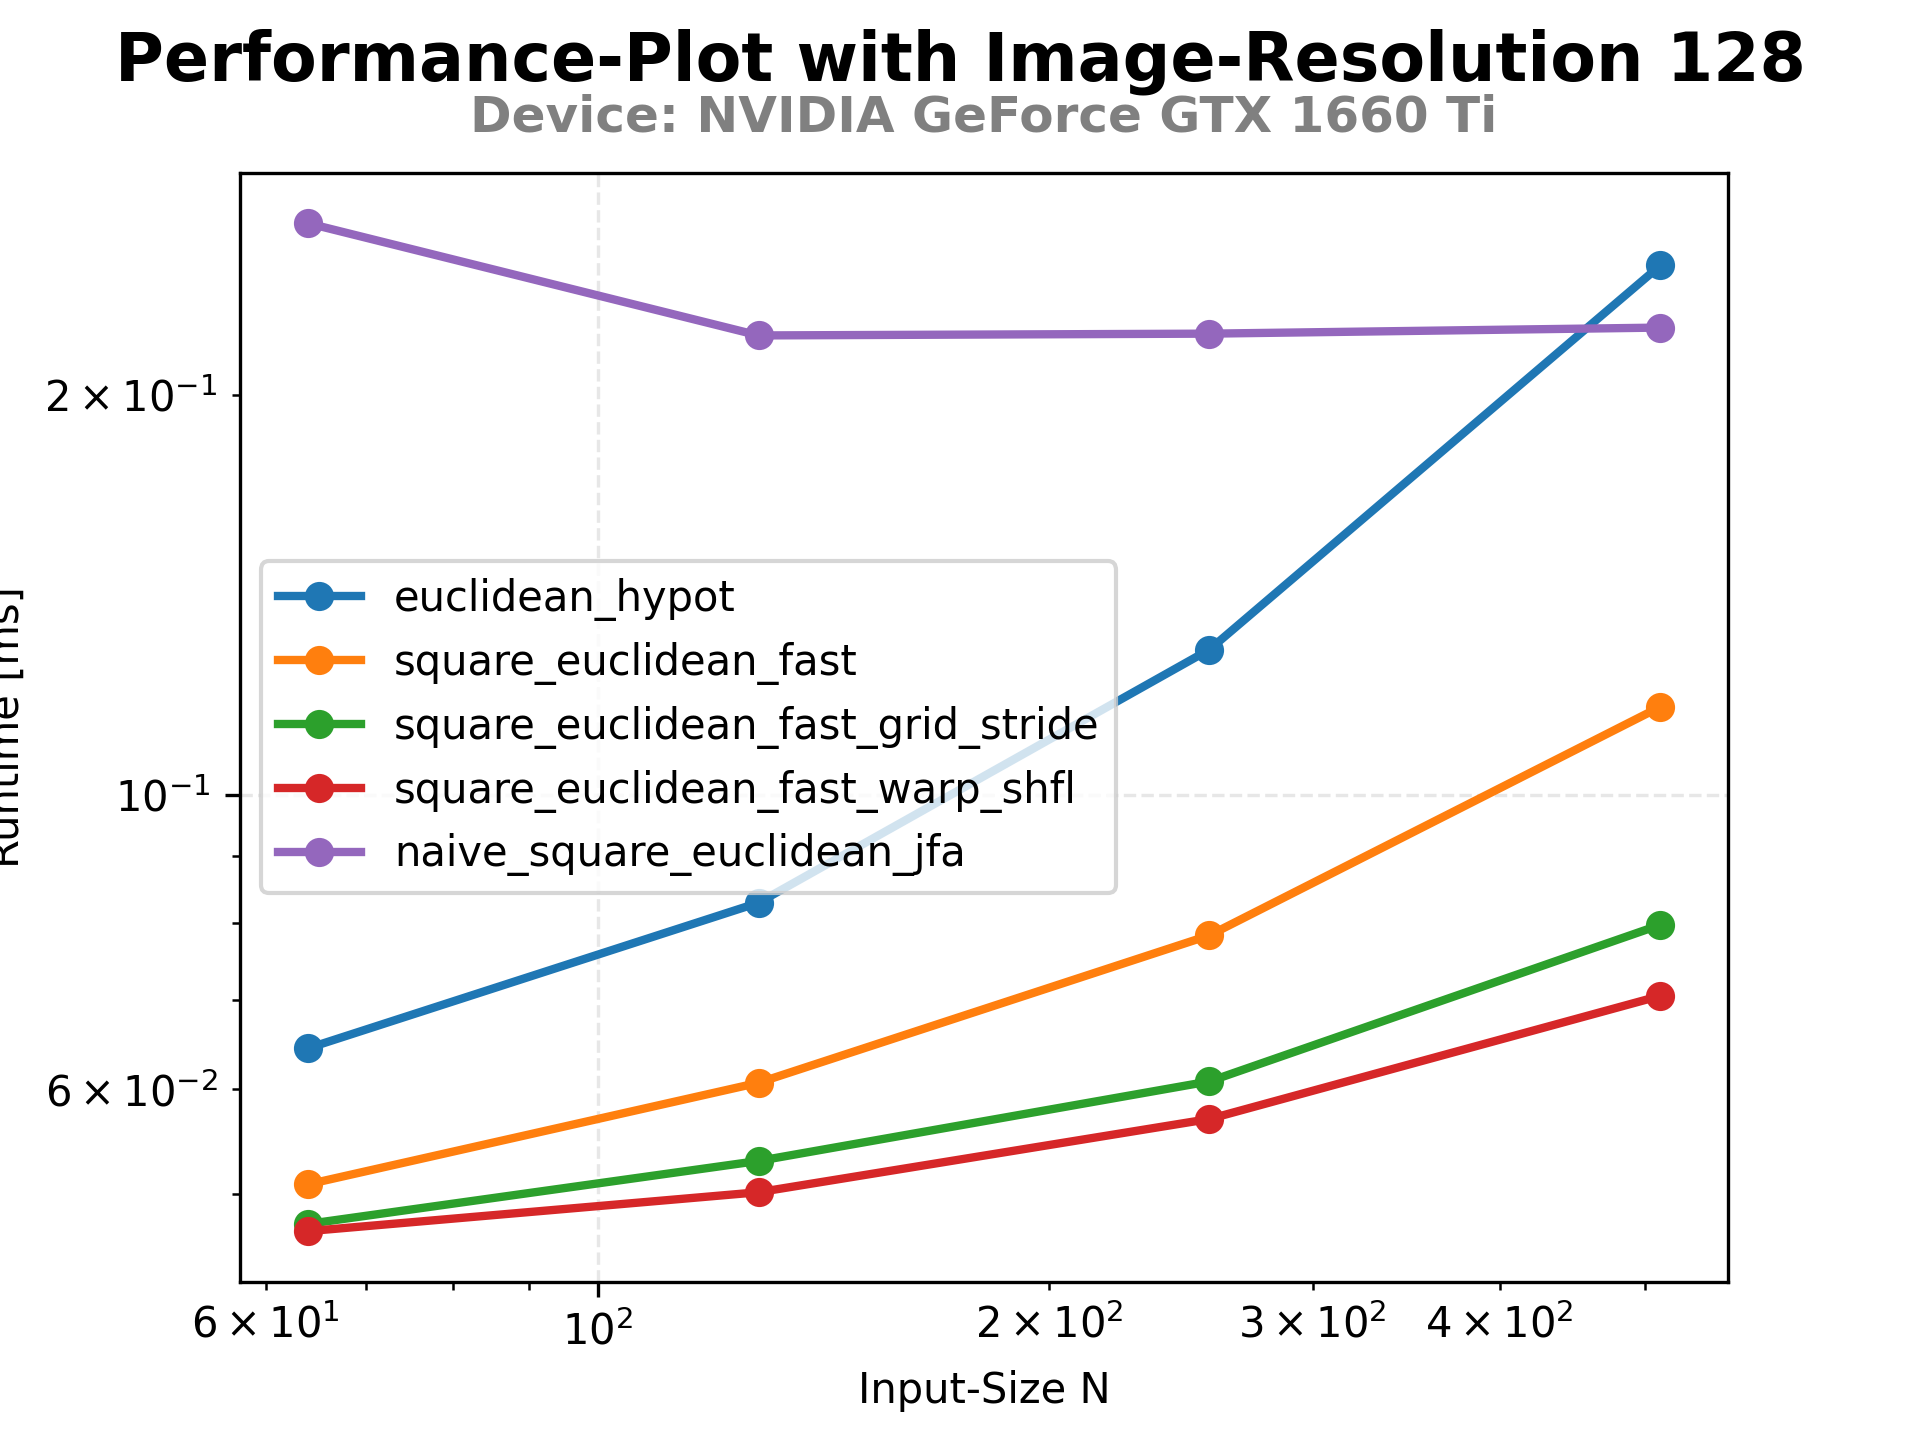
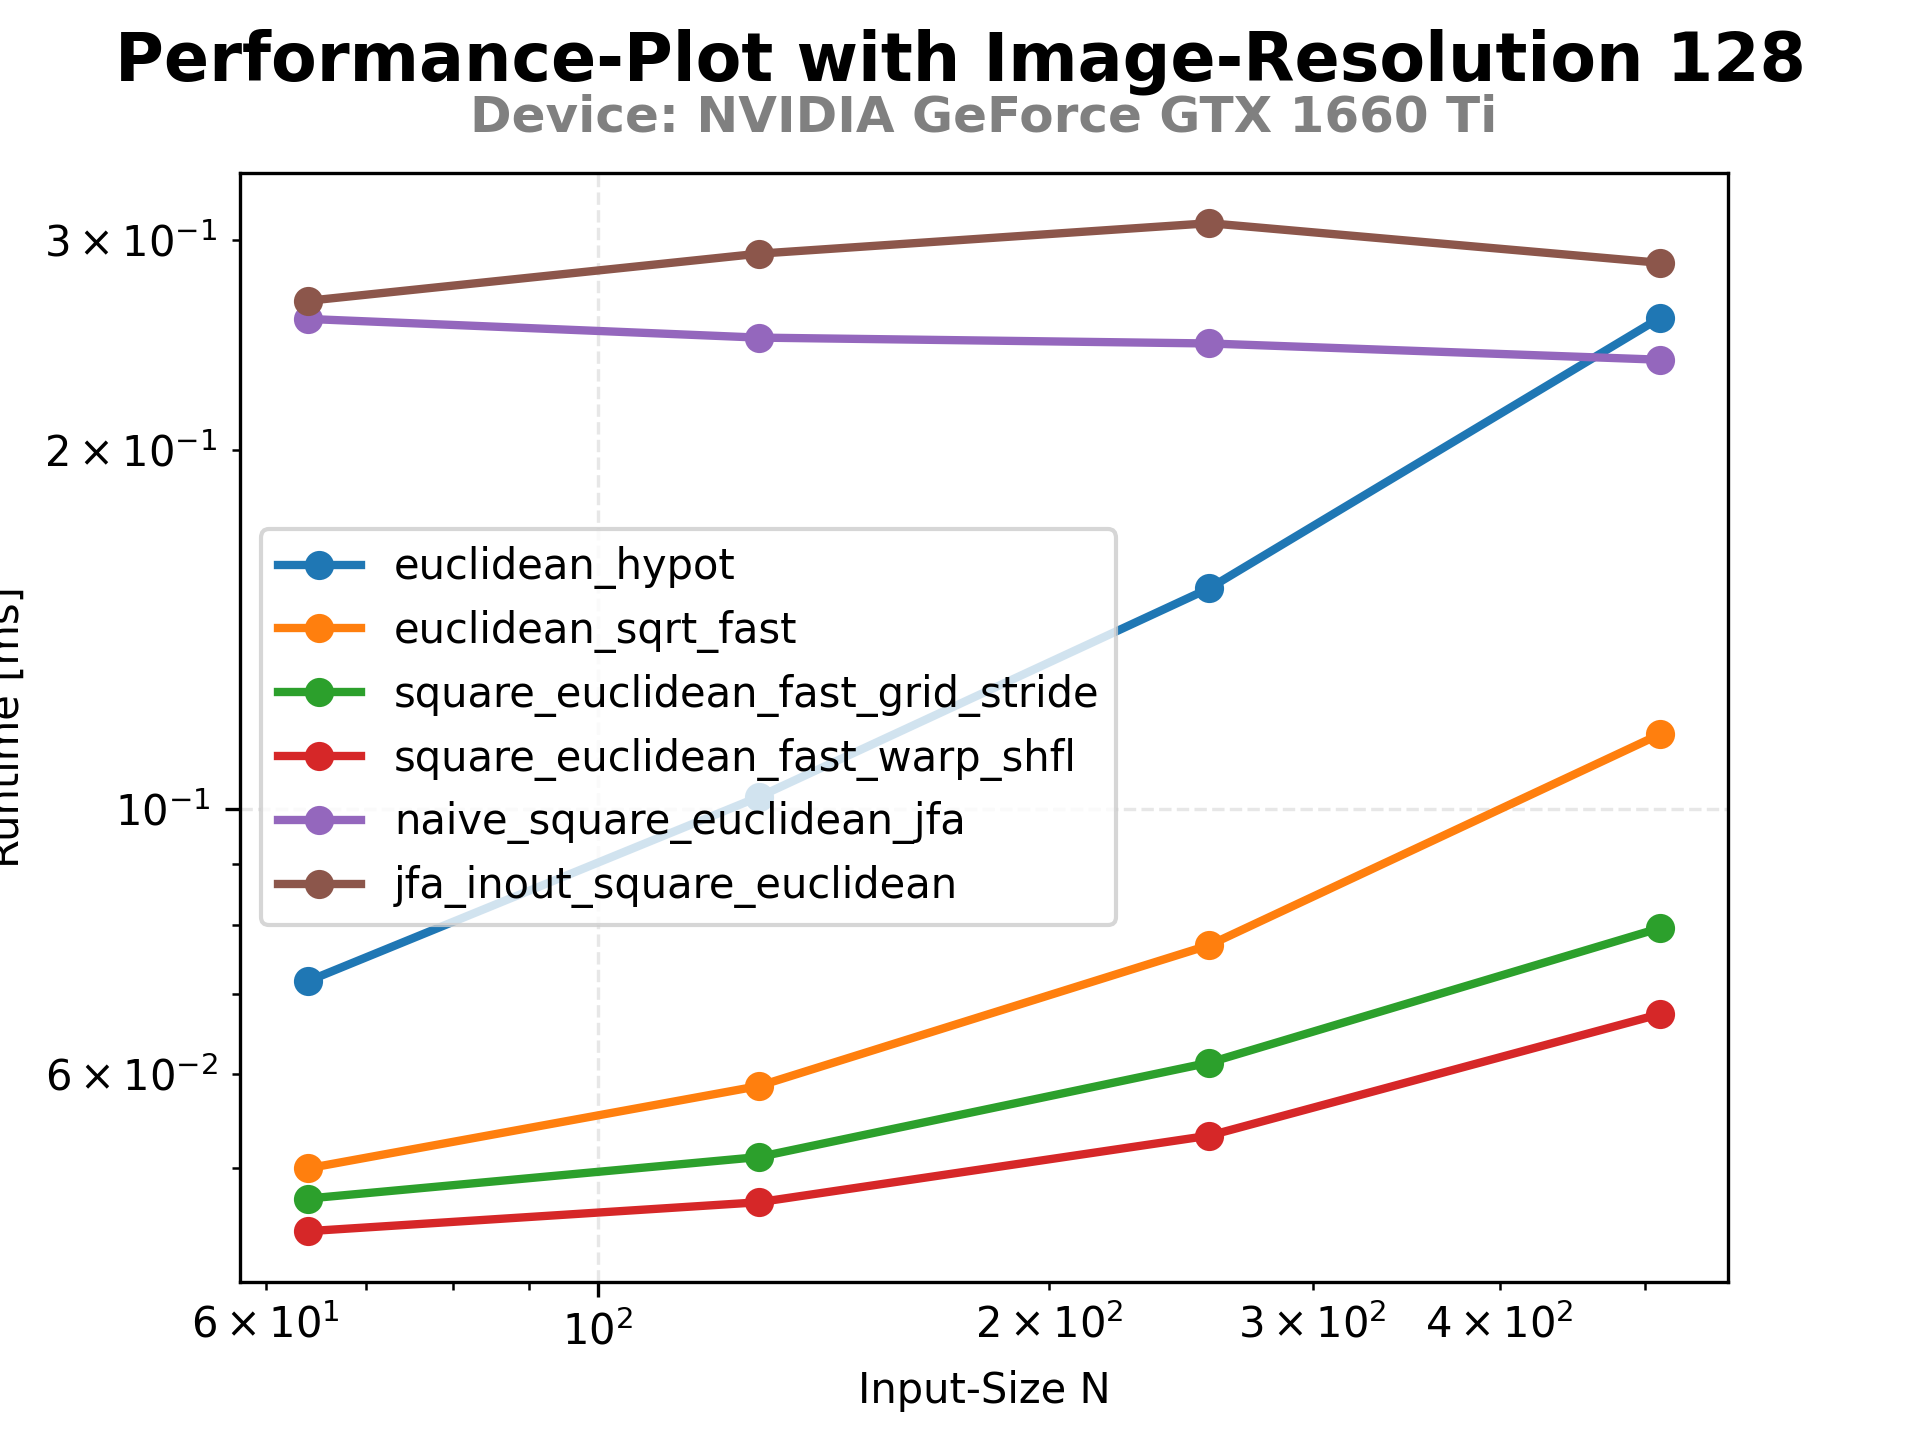
Update performance plot for task 7 on the GTX 1660 Ti

diff --git a/doc/README.md b/doc/README.md
@@ -1086,10 +1086,15 @@ Es ist zu sehen, dass für die Eingabe-Größen `512` und `2048` des Raster eine
 
 # Aufgabe 7 - Ergebnisse
 
+> [!NOTE]
+> **Maximale Pfadlänge unter Windows**
+>
+> Windows begrenzt Pfade auf [260 Zeichen](https://learn.microsoft.com/en-us/windows/win32/fileio/maximum-file-path-limitation?tabs=registry). Da die Dateinamenerstellung der Performanceplots in Aufgabe 7 diese Grenze überschreiten können, wurde die Option eines Identifiers eingeführt - in diesem Fall `final`. Ohne diesen schlägt das Speichern mit `FileNotFoundError: [Errno 2] No such file or directory: ...` fehl, weil der gesamte Pfad zu lang ist.
+
 Abschließend werden beide Algorithmen gemeinsam betrachtet und gegenübergestellt. Die folgenden Diagramme zeigen die Laufzeiten der jeweiligen Kernel für eine feste Bildgröße von $128 \times 128$ und eine variierende Anzahl an Punkten:
 
-| RTX 5070      | GTX 1660 Ti                                                                                                                                                                                                                          |
-| ------------- | ------------------------------------------------------------------------------------------------------------------------------------------------------------------------------------------------------------------------------------ |
+| RTX 5070                                                                                             | GTX 1660 Ti                                                                                             |
+| ---------------------------------------------------------------------------------------------------- | ------------------------------------------------------------------------------------------------------- |
 | ![](../data/performance_plot_NVIDIA-GeForce-RTX-5070_final_resolution=128_points=64,128,256,512.png) | ![](../data/performance_plot_NVIDIA-GeForce-GTX-1660-Ti_final_resolution=128_points=64,128,256,512.png) |
 
 Der Pixel-Algorithmus ist vor allem bei einer geringen Punktemenge sehr schnell und weist eine deutlich bessere Laufzeit als der JFA auf. Mit zunehmender Anzahl von Punkten im Diagramm nimmt die Laufzeit jedoch quadratisch zu. Ab einer bestimmten Anzahl greift die JFA-Charakteristik und der JFA ist schneller. Dieser Übergang erfolgt je nach Implementierung des Pixel-Algorithmus zu einem späteren Zeitpunkt, aber irgendwann wird der Schnittpunkt zwingend erreicht.